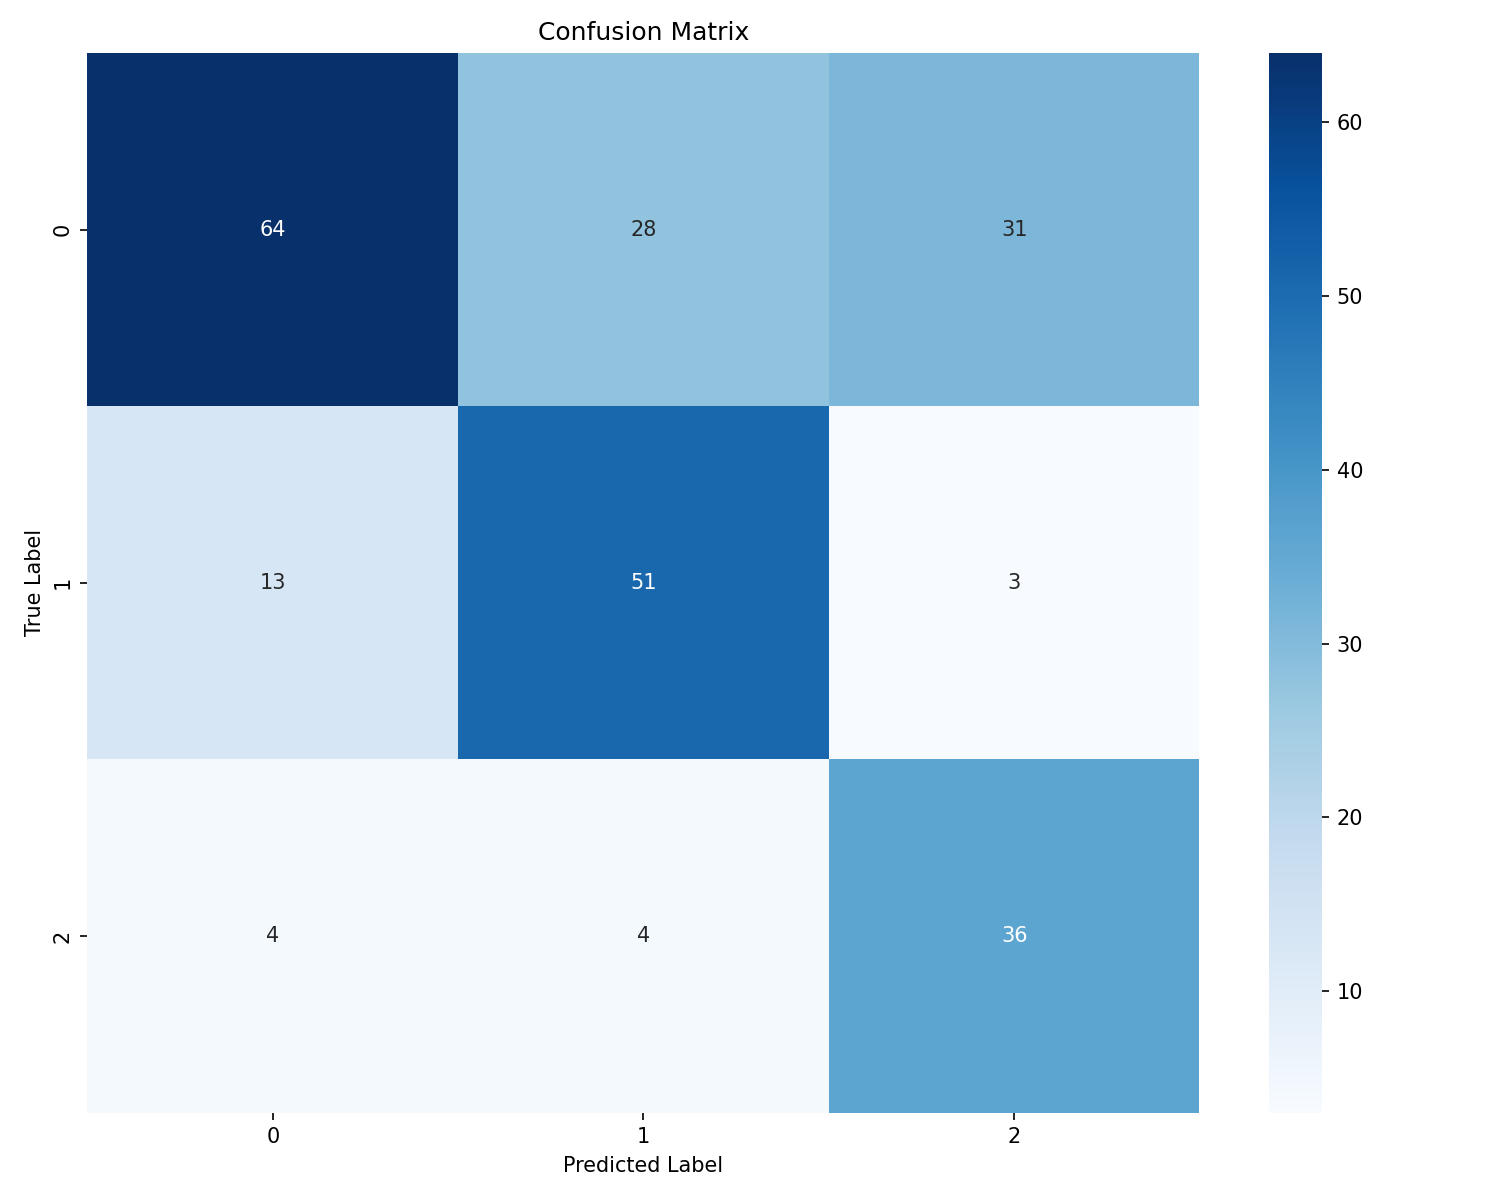
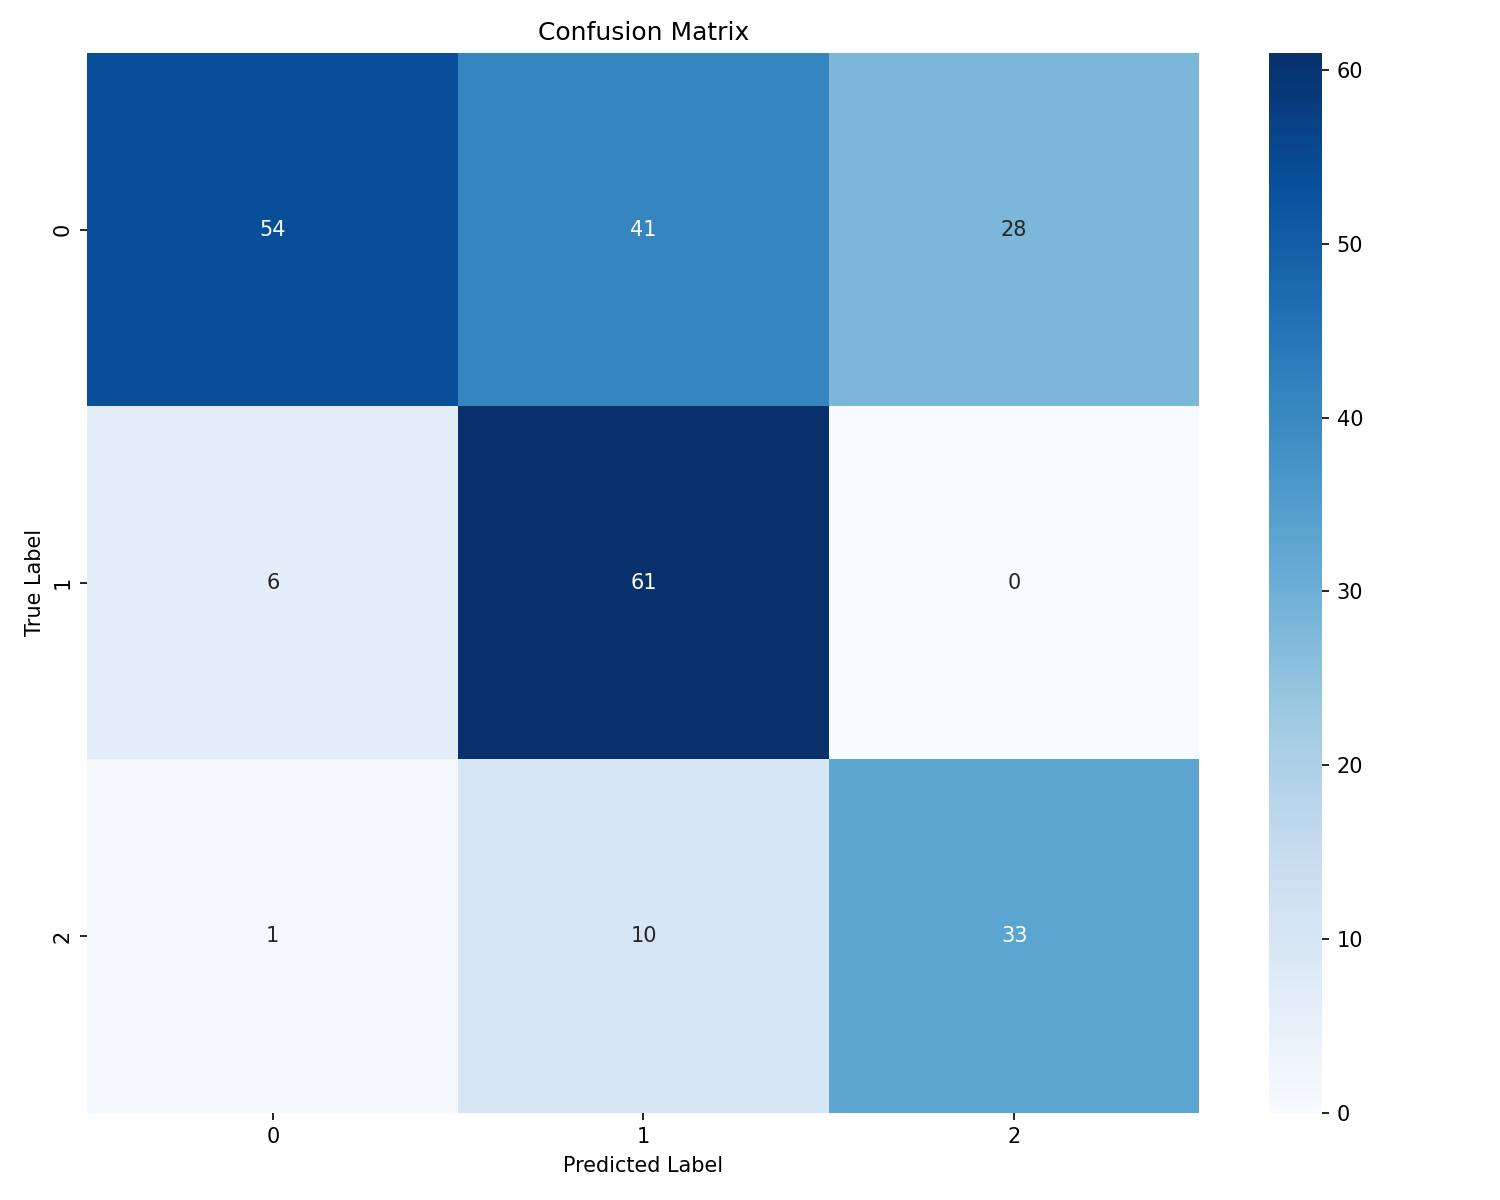
new method

diff --git a/artist_net.py b/artist_net.py
@@ -751,3 +751,126 @@ class ArtistNetSpectrogram(torch.nn.Module):
         x = self.forward(x)
         x = self.sm(x)
         return x
+
+
+class ArtistNetSpectrogramV2(torch.nn.Module):
+    def __init__(self, W=129, H=107, N=artist_count,
+                 conv1_channels=36,
+                 conv1_Wpadding=3, conv1_Hpadding=0,
+                 conv1_Wkernel=3, conv1_Hkernel=3,
+                 conv1_stride=3,
+                 pool1_kernel=5,
+                 convA_kernel=5,
+                 convA_padding=2, convA_stride=1,
+                 conv2_channels=36,
+                 conv2_Wpadding=1, conv2_Hpadding=2,
+                 conv2_Wkernel=3, conv2_Hkernel=3,
+                 conv2_stride=1,
+                 pool2_kernel=9):
+        super(ArtistNetSpectrogramV2, self).__init__()
+
+        # self.conv1_channels = conv1_channels
+        self.pool1_kernel = pool1_kernel
+        # self.conv2_channels = conv2_channels
+        self.pool2_kernel = pool2_kernel
+
+        self.W = W
+        self.H = H
+        self.N = N
+
+        self.Wc1 = (W - conv1_Wkernel + 2 * conv1_Wpadding) // conv1_stride + 1
+        print('Wc1', self.Wc1)
+        self.Hc1 = (H - conv1_Hkernel + 2 * conv1_Hpadding) // conv1_stride + 1
+        print('Hc1', self.Hc1)
+        # self.S1 = conv1_channels * self.Sc1 // pool1_kernel
+        # print('S1', self.S1)
+        self.Wf1 = self.Wc1 // pool1_kernel
+        print('Wf1', self.Wf1)
+        self.Hf1 = self.Hc1 // pool1_kernel
+        print('Hf1', self.Hf1)
+        self.Wc2 = (self.Wf1 - conv2_Wkernel + 2 * conv2_Wpadding) // conv2_stride + 1
+        print('Wc2', self.Wc2)
+        self.Hc2 = (self.Hf1 - conv2_Hkernel + 2 * conv2_Hpadding) // conv2_stride + 1
+        print('Hc2', self.Hc2)
+        self.Wf2 = self.Wc2 // pool2_kernel
+        print('Sf2', self.Wf2)
+        self.Hf2 = self.Hc2 // pool2_kernel
+        print('Hf2', self.Hf2)
+        self.S2 = conv2_channels * self.Wf2 * self.Hf2
+        print('S2', self.S2)
+        self.n_hidden_neurons = self.S2 * 6
+        # self.n_hidden_neurons = 240
+        # self.n_hidden_neurons = self.S1
+        print('n_hidden_neurons', self.n_hidden_neurons)
+
+        # self.fc0 = torch.nn.Linear(self.S, self.n_hidden_neurons)
+        # self.activ0 = torch.nn.Tanh()
+        self.conv1 = torch.nn.Conv2d(1, conv1_channels,
+                                     (conv1_Wkernel, conv1_Hkernel), stride=(conv1_stride, conv1_stride),
+                                     padding=(conv1_Wpadding, conv1_Hpadding), groups=1)
+        self.convA1 = torch.nn.Conv2d(conv1_channels, conv1_channels, (convA_kernel, convA_kernel),
+                                      stride=(convA_stride, convA_stride),
+                                      padding=convA_padding, groups=conv1_channels)
+        self.convA2 = torch.nn.Conv2d(conv1_channels, conv1_channels, (convA_kernel, convA_kernel),
+                                      stride=(convA_stride, convA_stride),
+                                      padding=convA_padding, groups=conv1_channels)
+        self.convA3 = torch.nn.Conv2d(conv1_channels, conv1_channels, (convA_kernel, convA_kernel),
+                                      stride=(convA_stride, convA_stride),
+                                      padding=convA_padding, groups=conv1_channels)
+        self.convA4 = torch.nn.Conv2d(conv1_channels, conv1_channels, (convA_kernel, convA_kernel),
+                                      stride=(convA_stride, convA_stride),
+                                      padding=convA_padding, groups=conv1_channels)
+        self.convA5 = torch.nn.Conv2d(conv1_channels, conv1_channels, (convA_kernel, convA_kernel),
+                                      stride=(convA_stride, convA_stride),
+                                      padding=convA_padding, groups=conv1_channels)
+        self.maxpool1 = torch.nn.MaxPool2d(kernel_size=(pool1_kernel, pool1_kernel))
+        self.conv2 = torch.nn.Conv2d(conv1_channels, conv2_channels,
+                                     (conv2_Wkernel, conv2_Hkernel), stride=(conv2_stride, conv2_stride),
+                                     padding=(conv2_Wpadding, conv2_Hpadding), groups=1)
+        self.maxpool2 = torch.nn.MaxPool2d(kernel_size=(pool2_kernel, pool2_kernel))
+        self.fc1 = torch.nn.Linear(self.S2, self.n_hidden_neurons)
+        self.activ1 = torch.nn.Tanh()
+        self.fc3 = torch.nn.Linear(self.n_hidden_neurons, self.n_hidden_neurons)
+        self.activ3 = torch.nn.Tanh()
+        self.fc4 = torch.nn.Linear(self.n_hidden_neurons, 2*N)
+        self.maxpool3 = torch.nn.MaxPool1d(kernel_size=2)
+        self.sm = torch.nn.Softmax(dim=1)
+
+    def forward(self, x):
+        _print('forward')
+        batch_size = list(x.shape)[0]
+        x = x.reshape(batch_size, 1, self.W, self.H)
+        x = self.conv1(x)
+        _print(x.shape)
+        for conv in [self.convA1, self.convA2, self.convA3, self.convA4, self.convA5]:
+            x1 = conv(x)
+            x = x + x1
+        x = self.maxpool1(x)
+        _print(x.shape)
+        x = self.conv2(x)
+        _print(x.shape)
+        x = self.maxpool2(x)
+        _print(x.shape)
+        x = x.reshape(batch_size, -1)
+        # x = x.transpose(1, 2)
+        _print(x.shape)
+        x = self.fc1(x)
+        _print(x.shape)
+        x = self.activ1(x * ktan) / ktan
+        x = self.fc3(x)
+        _print(x.shape)
+        x = self.activ3(x * ktan) / ktan
+        x = self.fc4(x)
+        _print(x.shape)
+        x = self.maxpool3(x)
+        _print(x.shape)
+        # x = x.reshape(batch_size, -1)
+        # _print(x.shape)
+        # x = self.sm(x)
+        # _print(x.shape)
+        return x
+
+    def inference(self, x):
+        x = self.forward(x)
+        x = self.sm(x)
+        return x

diff --git a/artist_folder_test_spectrogram.py b/artist_folder_test_spectrogram.py
@@ -20,10 +20,10 @@ from pydub import AudioSegment
 
 from scipy import signal
 
-from artist_net import ArtistNetSpectrogram
+from artist_net import ArtistNetSpectrogramV2
 from debug import _print
 
-version_name = 'spectrogram'
+version_name = 'spectrogram_v2'
 
 working_dir = '.'
 
@@ -33,7 +33,7 @@ weights_dir = f'{working_dir}/weights/{version_name}_3_300_24_weights'
 FRAME_RATE = 8000
 CHUNK_SIZE = 24000
 
-last_epoch = 260
+last_epoch = 50
 
 S = 24000
 N = 3
@@ -68,7 +68,7 @@ torch.xpu.manual_seed(0)
 torch.backends.cudnn.deterministic = True
 
 print('preparing neural networking')
-artist_net = ArtistNetSpectrogram()
+artist_net = ArtistNetSpectrogramV2()
 
 if last_epoch >= 0:
     fn_weights = f'{weights_dir}/model_weights_epoch_{last_epoch}.pth'
@@ -181,6 +181,6 @@ else:
     plt.ylabel('True Label')
     plt.xlabel('Predicted Label')
     plt.tight_layout()
-    plt.savefig("confusion_matrix_folder_test_spectrogram.png", dpi=150)
+    plt.savefig(f"confusion_matrix_folder_test_{version_name}.png", dpi=150)
     plt.close()
 

diff --git a/artist_classifier_with_spectrogram.py b/artist_classifier_with_spectrogram.py
@@ -14,10 +14,10 @@ from sklearn.metrics import classification_report
 
 from scipy import signal
 
-from artist_net import ArtistNetSpectrogram, sample_len
+from artist_net import ArtistNetSpectrogramV2, sample_len
 from debug import _print
 
-version_name = 'spectrogram'
+version_name = 'spectrogram_v2'
 
 artist_count = 3
 
@@ -195,7 +195,7 @@ print(X_validate.cpu().min(), X_validate.cpu().max(), X_validate.cpu().mean())
 print('making tensors done')
 
 print('preparing neural networking')
-artist_net = ArtistNetSpectrogram()
+artist_net = ArtistNetSpectrogramV2()
 
 epoch = last_epoch
 
